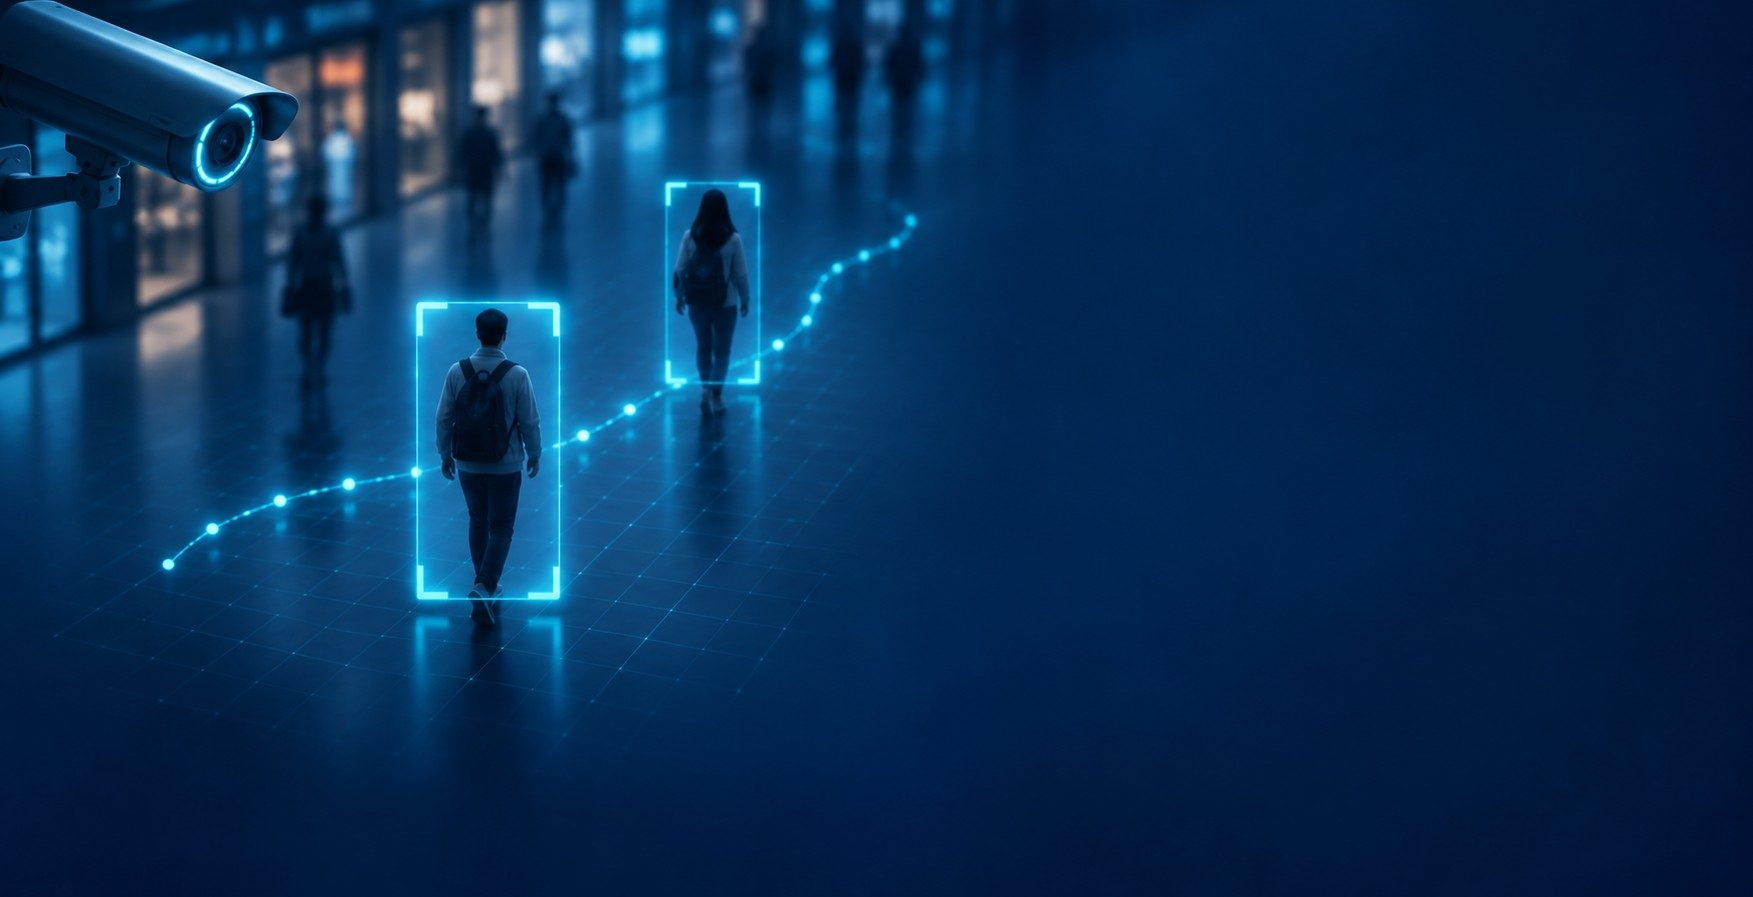
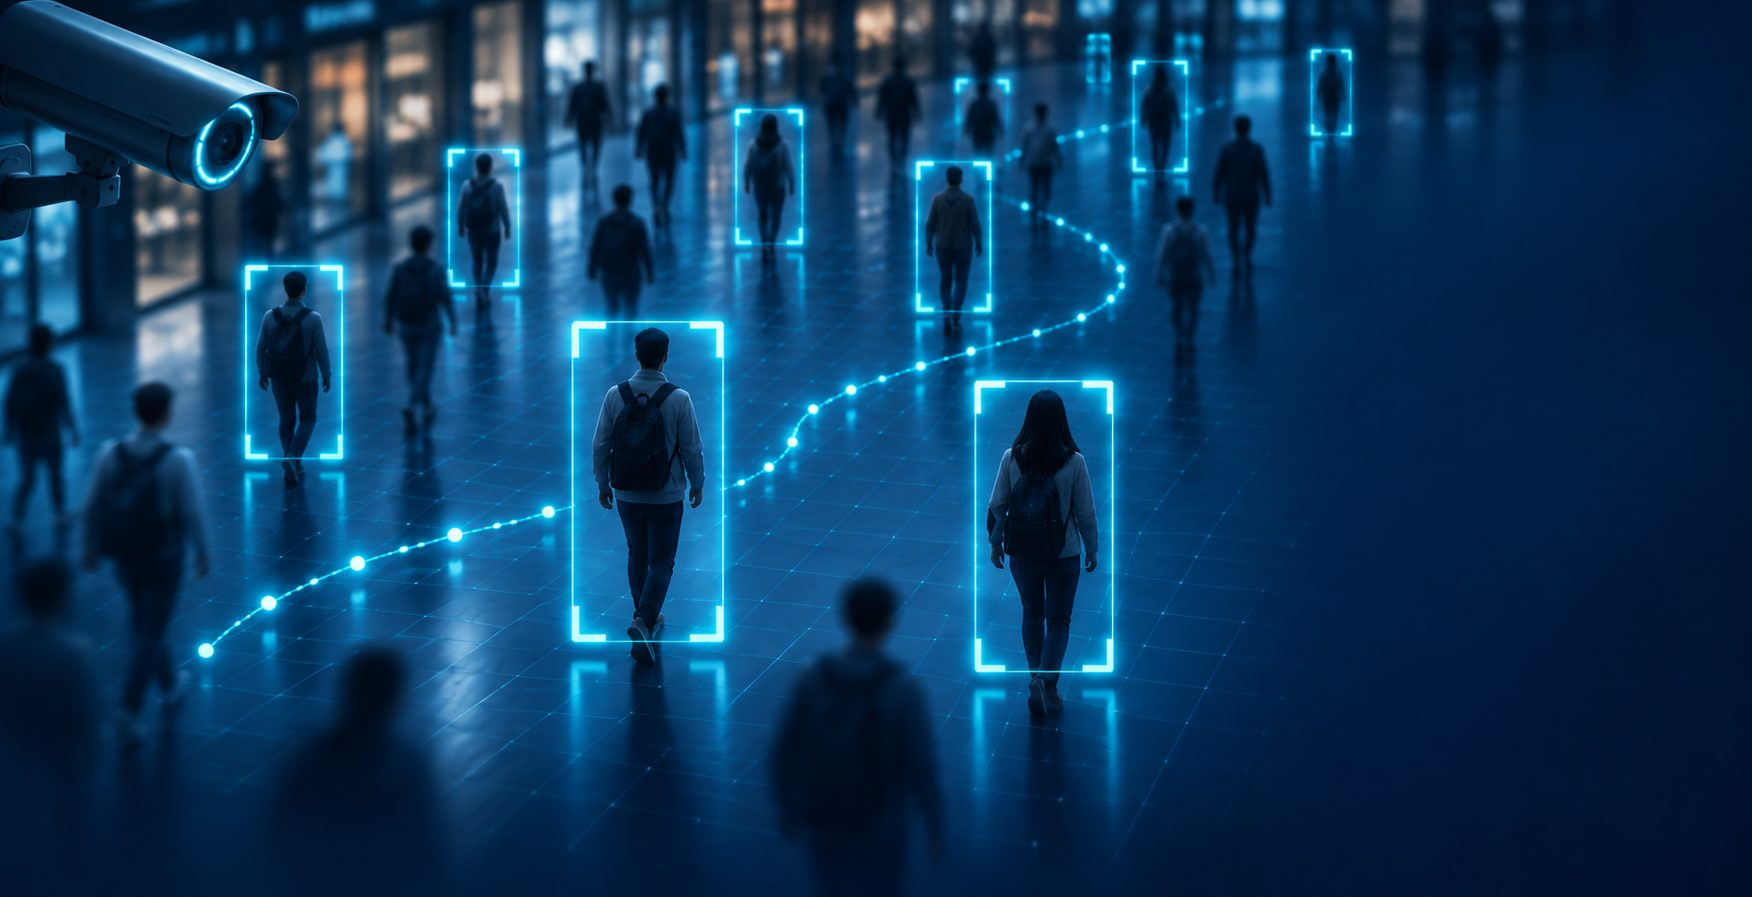
Acceso: otra imagen de fondo, la misma escena con más gente (una cámara que sigue a varias personas en un pasillo, cada una en su recuadro). 1752 × 897, JPEG progresivo de 128 KB. En el teléfono se recorta alrededor de la persona del centro (37 % desde la izquierda). Pruebas: vite build

diff --git a/web/src/core/style.css b/web/src/core/style.css
@@ -331,9 +331,9 @@ button:disabled {
 }
 
 /* ---------- acceso ---------- */
-/* La imagen de fondo (cámara que sigue a personas) cubre siempre toda la pantalla, fija aunque la página se desplace.
-   La escena va a la izquierda (en el teléfono se recorta alrededor de las personas) y la derecha, oscura y lisa, queda
-   para la tarjeta del acceso; abajo a la izquierda va solo la marca. index.html la pide de entrada (preload): desde
+/* La imagen de fondo (una cámara que sigue a la gente de un pasillo) cubre siempre toda la pantalla, fija aunque la página
+   se desplace; en el teléfono se recorta alrededor de la persona del centro. La tarjeta del acceso va a la derecha, donde
+   la imagen se oscurece, y abajo a la izquierda va solo la marca. index.html la pide de entrada (preload): desde
    el CSS llegaba al final, después del JS y el CSS. */
 .login-page {
   position: relative;
@@ -348,7 +348,7 @@ button:disabled {
   position: fixed;
   inset: 0;
   z-index: -1;
-  background: url("/login-fondo.jpg") 27% top / cover no-repeat;
+  background: url("/login-fondo.jpg") 37% top / cover no-repeat;
 }
 .login-visual {
   position: relative;
